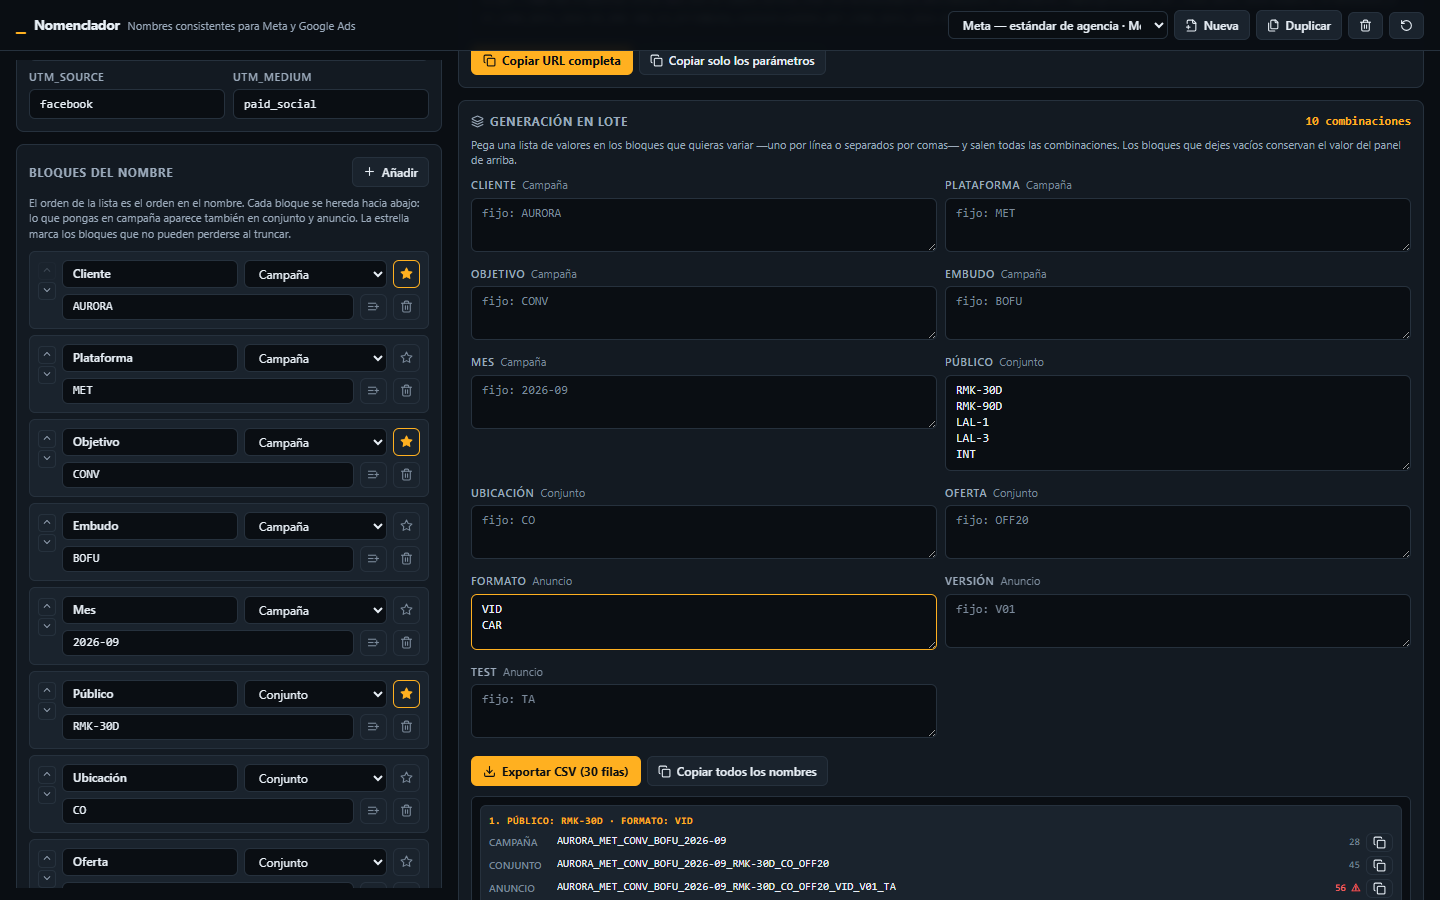
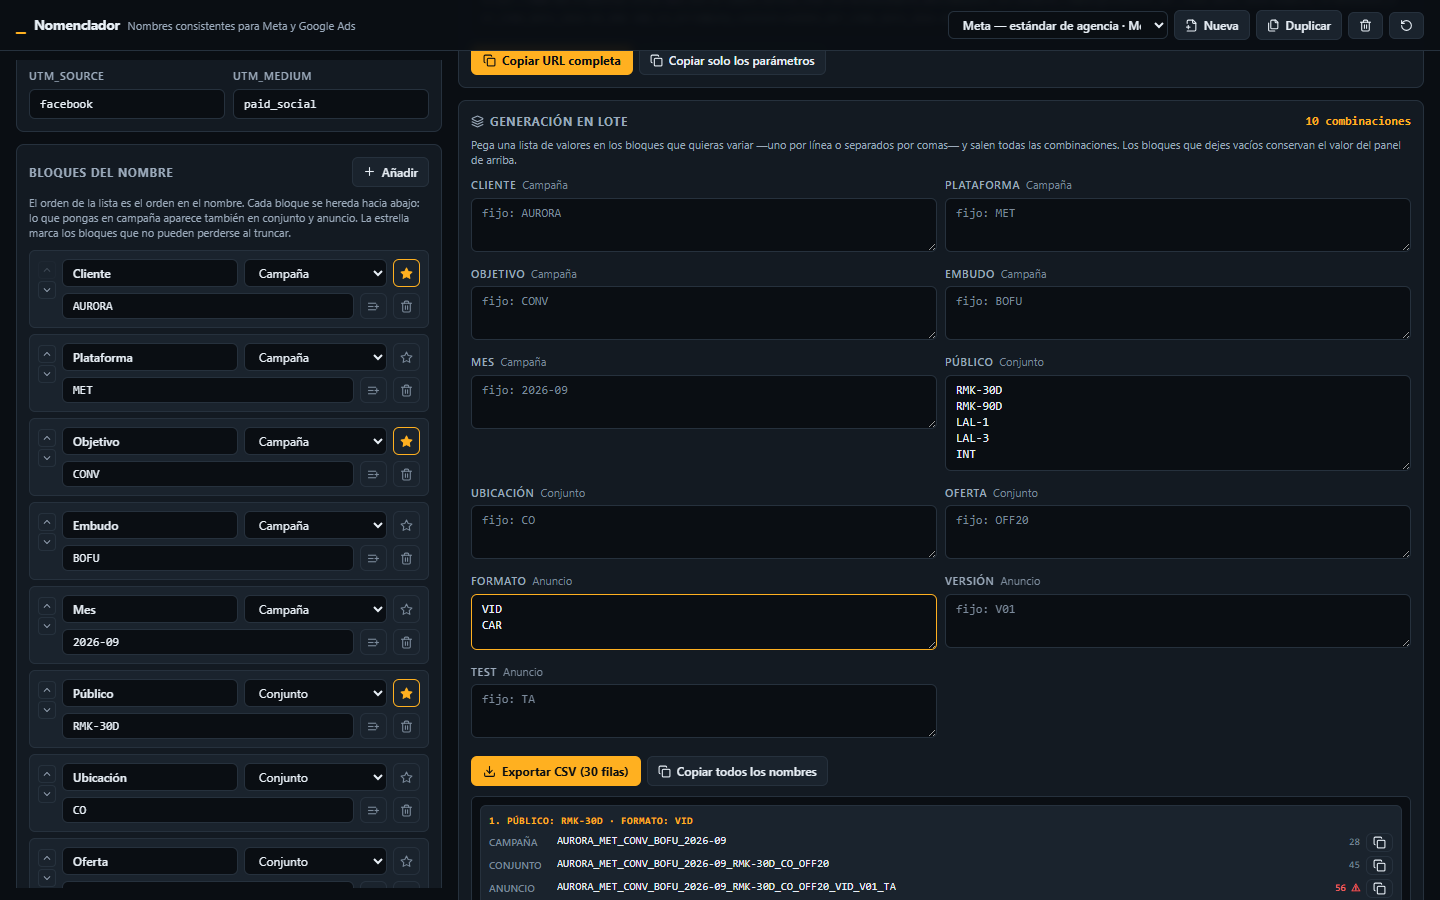
Un margen del 167 % no es una salida: dilo en vez de proponerlo
Al despejar las tres variables para llegar al equilibrio, el margen
necesario puede pasar del 100 %. La cifra era correcta y la propuesta
absurda; ahora ese caso dice que por esa vía no hay salida.

Claude-Session: https://claude.ai/code/session_01KtSD54VmBxdjsXnZDzkvHP

diff --git a/src/componentes/PanelPresupuesto.tsx b/src/componentes/PanelPresupuesto.tsx
@@ -466,8 +466,18 @@ export function PanelResultados({
                   {m(e.ticket)} a <strong className="text-ambar">{m(r.ajustes.ticket)}</strong>
                 </li>
                 <li>
-                  Subir el margen del {porcentaje(e.margen, 0)} al{' '}
-                  <strong className="text-ambar">{porcentaje(r.ajustes.margen, 0)}</strong>
+                  {r.ajustes.margen > 100 ? (
+                    <>
+                      Por margen no hay salida: haría falta un{' '}
+                      <strong className="text-rojo">{porcentaje(r.ajustes.margen, 0)}</strong>, y el
+                      margen no pasa del 100 %
+                    </>
+                  ) : (
+                    <>
+                      Subir el margen del {porcentaje(e.margen, 0)} al{' '}
+                      <strong className="text-ambar">{porcentaje(r.ajustes.margen, 0)}</strong>
+                    </>
+                  )}
                 </li>
                 <li>
                   Subir la conversión del {porcentaje(e.tasaConversion)} al{' '}
